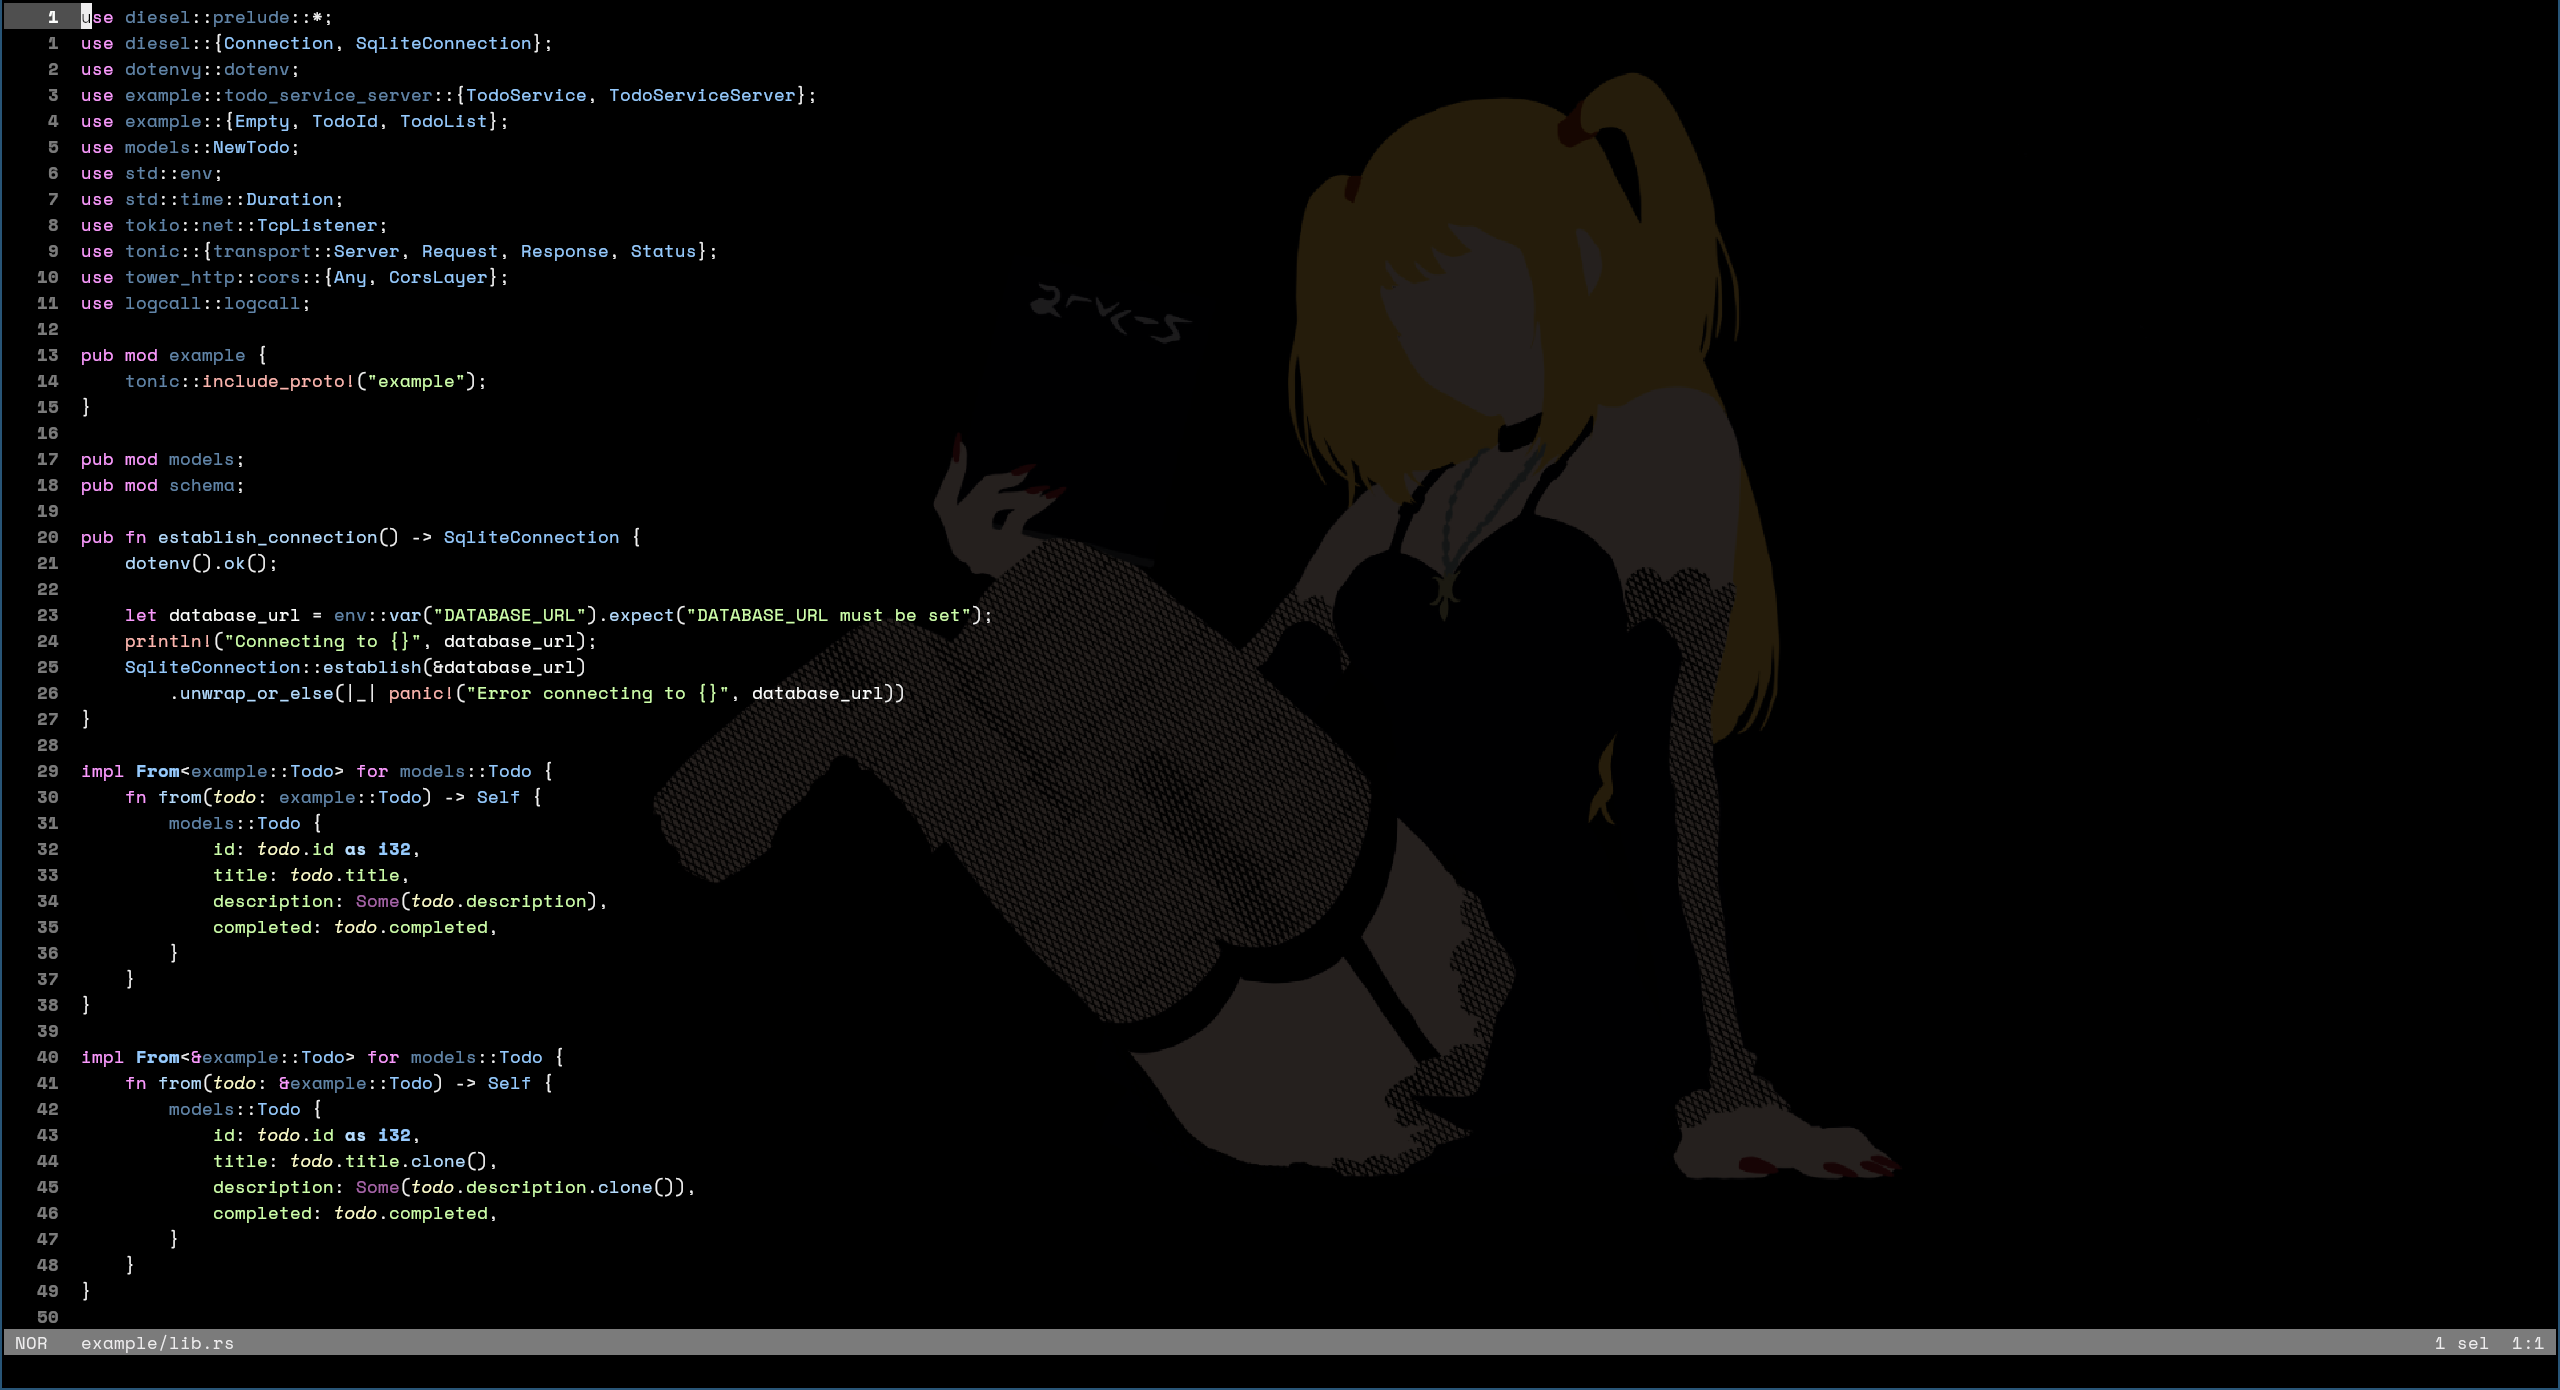
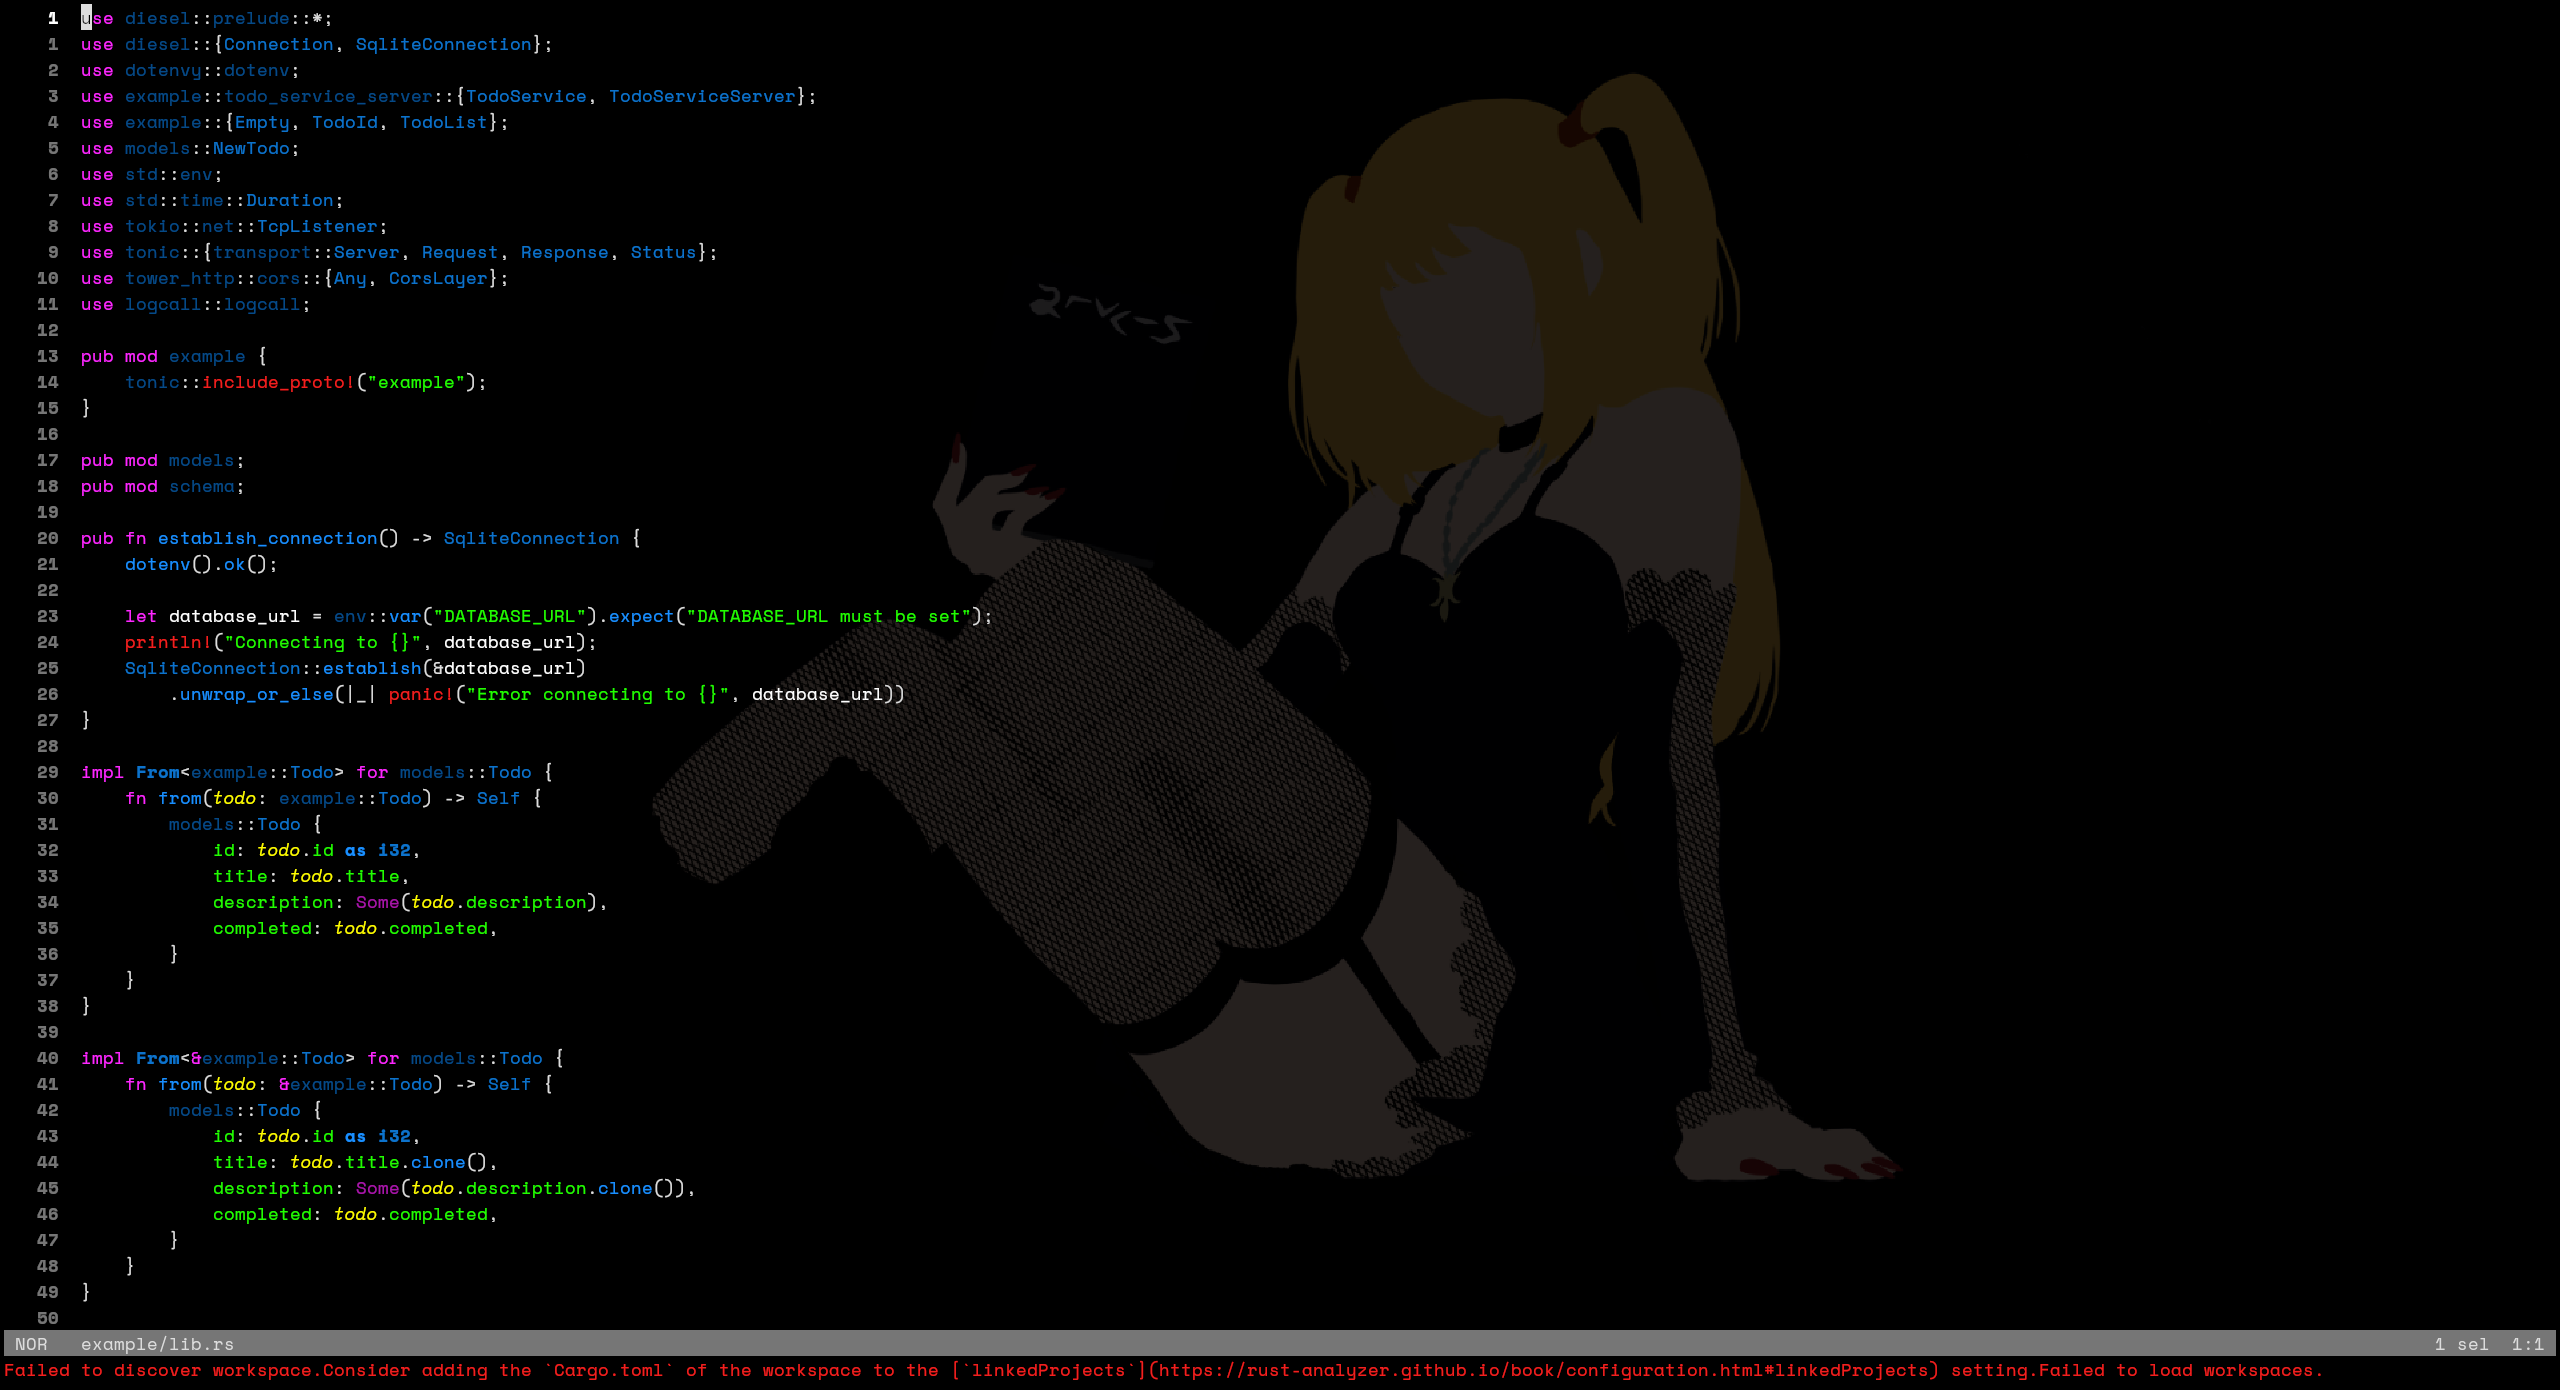
Add themes without custom color schemes :smiley:

diff --git a/DEMO.md b/DEMO.md
@@ -1,9 +1,18 @@
 ## ene.conf
 ![](./screenshots/ene.conf.png)
 
+## ene_with_colors.conf
+![](./screenshots/ene_with_colors.conf.png)
+
 ## miku.conf
 ![](./screenshots/miku.conf.png)
 
+## miku_with_colors.conf
+![](./screenshots/miku_with_colors.conf.png)
+
 ## misa.conf
 ![](./screenshots/misa.conf.png)
+
+## misa_with_colors.conf
+![](./screenshots/misa_with_colors.conf.png)
 
